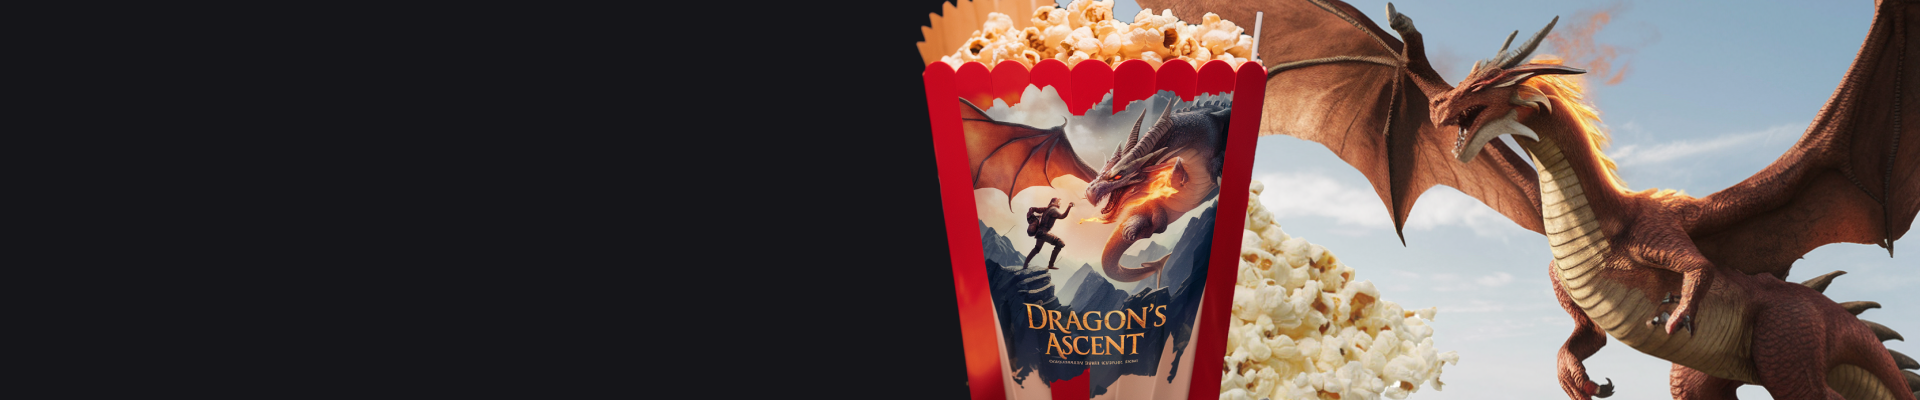
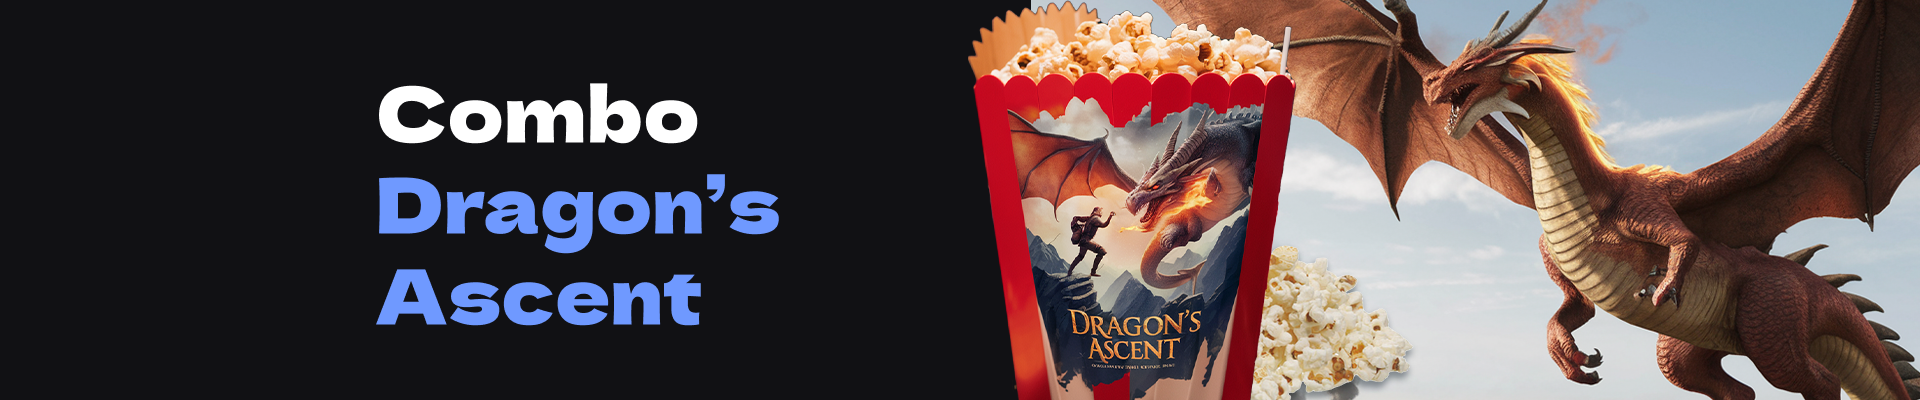
Aula 5 - Finalizando a aplicação 5.2 - Seção de Newsletter

diff --git a/src/components/Button/index.tsx b/src/components/Button/index.tsx
@@ -1,19 +1,20 @@
-import styles from "./Button.module.css";
-import classNames from "classnames";
+import { JSX } from "react";
+import * as S from "./Button.styled";
 
 interface ButtonProps extends React.ButtonHTMLAttributes<HTMLButtonElement> {
     variant: "default" | "icon";
 };
 
 const Button = ({ children, variant = "default", ...props }: ButtonProps) => {
-    const classMap = {
-        default: styles.default,
-        icon: styles.icon
+    const botaoRender = (variant: string): JSX.Element => {
+        if (variant === "icon") {
+            return <S.BotaoIcon {...props}>{children}</S.BotaoIcon>;
+        } else {
+            return <S.BotaoDefault {...props}>{children}</S.BotaoDefault>
+        }
     };
 
-    return (
-        <button className={classNames(styles.botao, classMap[variant])} {...props}>{children}</button>
-    )
+    return botaoRender(variant);
 };
 
 export default Button;

diff --git a/src/components/MovieSection/index.tsx b/src/components/MovieSection/index.tsx
@@ -6,6 +6,7 @@ import MoviesList from "../MoviesList";
 import UseFetchMovies from "../../hooks/useFetchMovies";
 import useFilterMovies from "../../hooks/useFilterMovies";
 import * as S from "./MovieSection";
+import * as GS from "../../styles/GlobalStyles";
 
 const MovieSection = () => {
     const { movies, loading, erro } = UseFetchMovies();
@@ -22,9 +23,10 @@ const MovieSection = () => {
                     </Button>
                 </Fieldset>
                 <S.Titulo>Em Cartaz</S.Titulo>
-                {loading ? <p>Carregando...</p> : erro ? <p>{erro}</p> : (
-                    <MoviesList listMovies={filteredMovies} />
-                )}
+                {loading ? <p>Carregando...</p> :
+                    erro ? <GS.Error>{erro}</GS.Error> : (
+                        <MoviesList listMovies={filteredMovies} />
+                    )}
             </S.Container>
         </main>
     )

diff --git a/src/pages/Home/Home.tsx b/src/pages/Home/Home.tsx
@@ -1,13 +1,15 @@
 import Banner from "../../components/Banner";
 import Header from "../../components/Header";
 import MovieSection from "../../components/MovieSection";
+import Newsletter from "../../components/Newsletter";
 
 const Home = () => (
     <>
         <Header />
-        <Banner src="\imagens\Banner Desktop.png" alt="Banner"
-            text1="Onde a realidade" text2="encontra a fantasia!" />
+        <Banner src="\imagens\Banner Desktop.png" alt="Banner" />
         <MovieSection />
+        <Banner src="\imagens\Banner Combo Desktop.png" alt="Banner Combo" />
+        <Newsletter />
     </>
 );
 

diff --git a/src/components/Button/Button.styled.ts b/src/components/Button/Button.styled.ts
@@ -1,21 +1,23 @@
-.botao {
+import styled from "styled-components";
+
+export const Botao = styled.button`
     padding: var(--padding-s);
     font-family: var(--fonte-texto);
     font-size: var(--font-size-s);
     border: none;
     border-radius: 8px;
     cursor: pointer;
-}
+    `
 
-.default {
+export const BotaoDefault = styled(Botao)`
     color: var(--branco);
     background-color: var(--cinza-escuro);
-}
+    `
 
-.icon {
+export const BotaoIcon = styled(Botao)`
     background: none;
     font-size: var(--font-size-l);
     border: none;
     padding: 0.5rem;
     color: #333;
-}
+    `

diff --git a/src/components/Newsletter/index.tsx b/src/components/Newsletter/index.tsx
@@ -1,0 +1,18 @@
+import Button from "../Button";
+import Fieldset from "../Fieldset";
+import InputText from "../InputText";
+import * as S from "./Newsletter.styled";
+
+const Newsletter = () => (
+    <S.Newsletter>
+        <S.Titulo>Inscreva-se para receber grandes descontos!</S.Titulo>
+        <S.Form>
+            <Fieldset>
+                <InputText placeholder="Digite seu e-mail" />
+            </Fieldset>
+            <Button variant="default" type="submit">Inscrever-se</Button>
+        </S.Form>
+    </S.Newsletter>
+);
+
+export default Newsletter;

diff --git a/src/components/Newsletter/Newsletter.styled.ts b/src/components/Newsletter/Newsletter.styled.ts
@@ -1,0 +1,22 @@
+import styled from "styled-components";
+
+export const Newsletter = styled.section`
+    background-color: var(--azul-claro);
+    padding: var(--padding-xxl) 0;
+`
+
+
+export const Form = styled.form`
+    display: flex;
+    align-items: center;
+    justify-content: center;
+    gap: var(--gap-s);  
+`
+
+export const Titulo = styled.h2`
+    color: var(--preto);
+    font-family: var(--fonte-titulo);
+    font-size: var(--font-size-l);
+    text-align: center;
+    margin-bottom: var(--margin-l);
+`

diff --git a/src/styles/GlobalStyles.ts b/src/styles/GlobalStyles.ts
@@ -1,4 +1,4 @@
-import { createGlobalStyle } from "styled-components";
+import styled, { createGlobalStyle } from "styled-components";
 
 const GlobalStyles = createGlobalStyle`
 :root {
@@ -67,5 +67,11 @@ main {
     align-items: center;
 }
 `;
+
+export const Error = styled.p`
+    color: #e63946;
+    font-size: var(--font-size-s);
+    margin-top: var(--margin-s);  
+`
 
 export default GlobalStyles;
